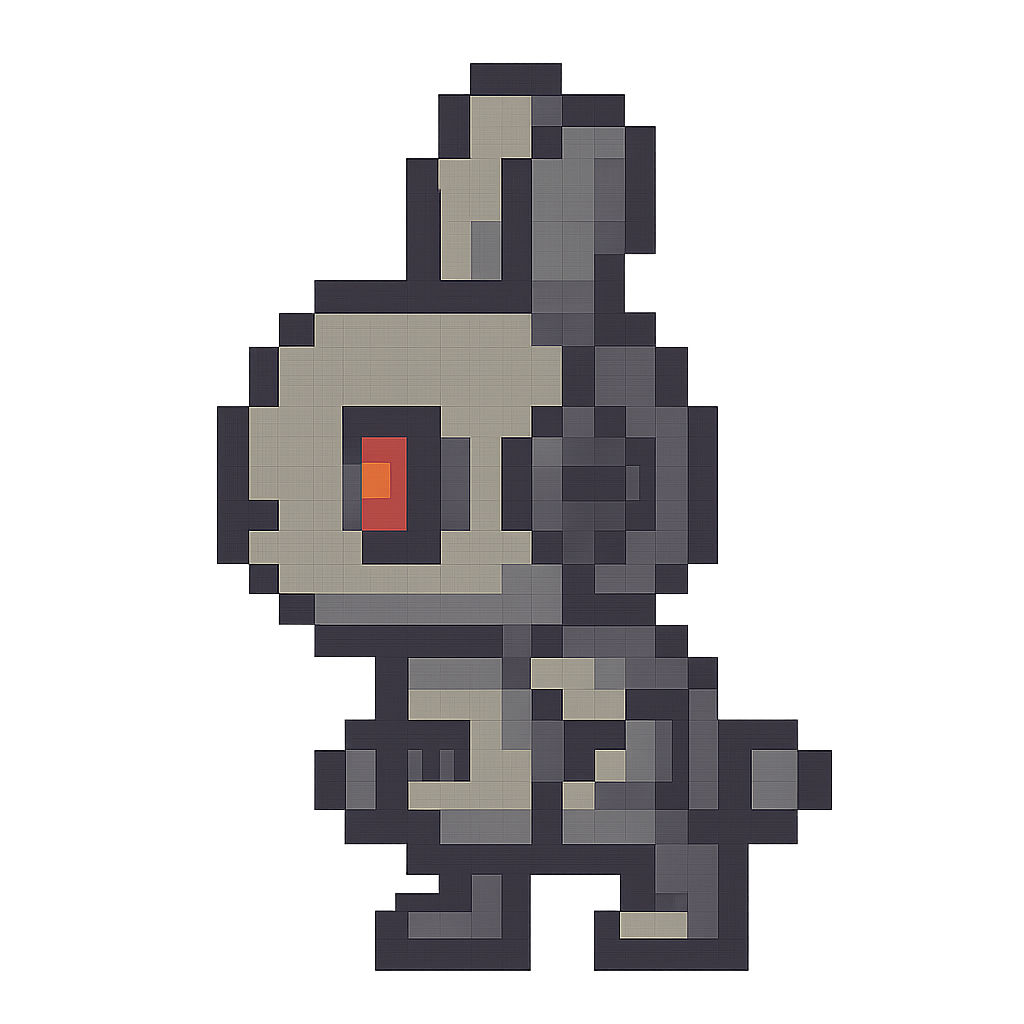
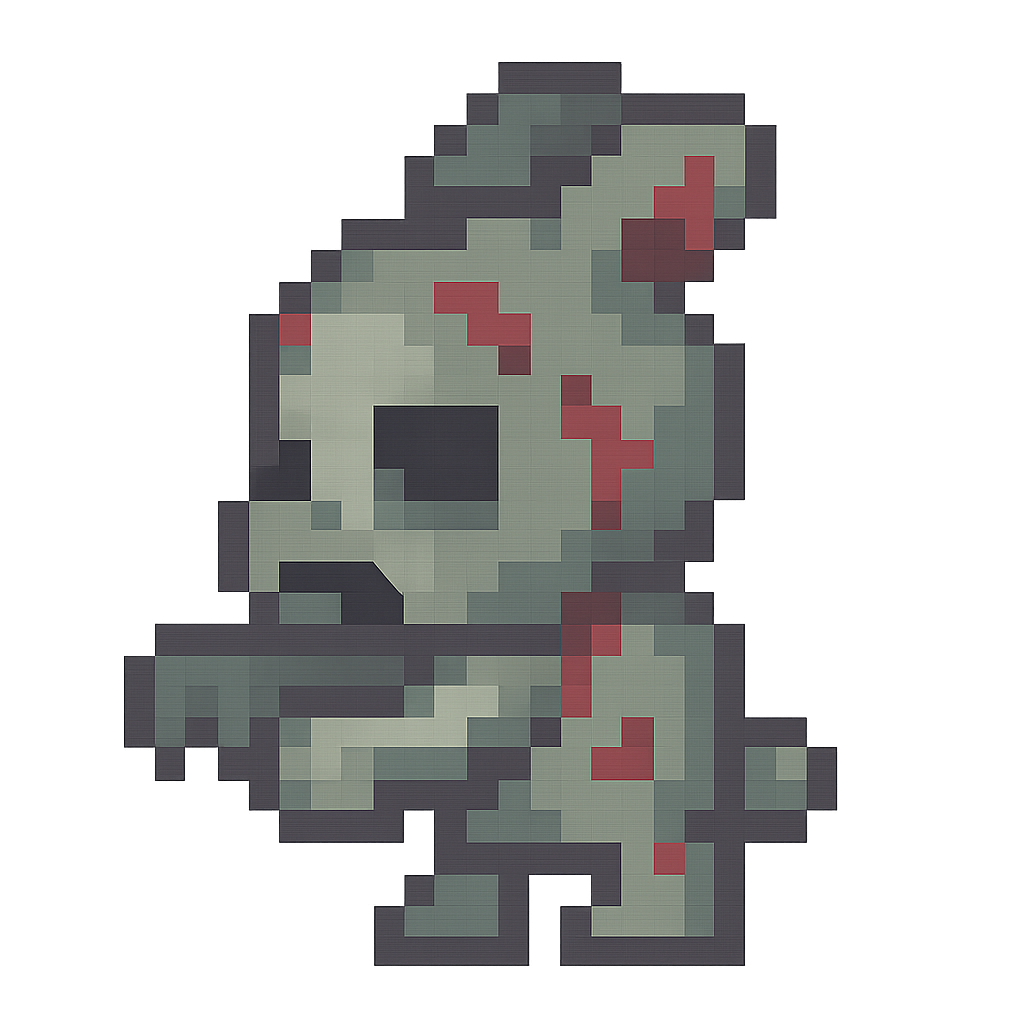
lv3/boss completed, shop incompleted

Changed region(s): [[0.0938, 0.0625, 0.8438, 0.9688]]

diff --git a/bunnywarswebsite/ScreenVisuals.js b/bunnywarswebsite/ScreenVisuals.js
@@ -38,93 +38,41 @@ class ScreenVisuals {
     }
 
     static fightScreen3() {
-        displayMessage(`
-            |-----------------------------------------------------------------------------------|
-            |                                                                                   |
-            |                           Welcome to the Dungeon.                 (ROAR! )        |
-            |                                                                      \\            |
-            |   (\\__/)                                                          (\\__(\\          |
-            |  (. ,, .) |                                                       (X == X)        |
-            | (0      )0+                                                      -(      )-       |
-            |  O------O                                                         O------O        |
-            |^^^^^^^^^^^^^^^^^^^^^^^^^^^^^^^^^^^^^^^^^^^^^^^^^^^^^^^^^^^^^^^^^^^^^^^^^^^^^^^^^^^|
-            |-----------------------------------------------------------------------------------|
-        `);
+        drawSprite("bunny_default", 200, 400, 100, 100);
+        drawSprite("monster_lv3", 1000, 400, 100, 100);
     }
 
     static doesDamage3() {
-        displayMessage(`
-            |-----------------------------------------------------------------------------------|
-            |                                                                                   |
-            |    (BOW BOW bow!)                                                 (AHHHH!)        |
-            |       /                                                               \\           |
-            |   (\\__/)                                                          (\\__(\\          |
-            |  (. ,, .) |                                                       (X == X)        |
-            | (0      )0+                                                      -(      )-       |
-            |  O------O                                                         O------O        |
-            |^^^^^^^^^^^^^^^^^^^^^^^^^^^^^^^^^^^^^^^^^^^^^^^^^^^^^^^^^^^^^^^^^^^^^^^^^^^^^^^^^^^|
-            |-----------------------------------------------------------------------------------|
-        `);
+        clearCanvas(); // Clear the canvas before drawing
+        drawBackground("bg_lv3"); // Draw the background again
+        drawSprite("bunny_default", 200, 400, 100, 100); // Draw the bunny sprite again
+        drawSprite("monster_lv3", 1000, 400, 100, 100); // Draw the monster sprite again
     }
 
     static takeDamage3() {
-        displayMessage(`
-            |-----------------------------------------------------------------------------------|
-            |                                                                                   |
-            |      (ouch!)                                                          (muahahaha) |
-            |        /                                                                \\         |
-            |   (\\__/)                                                          (\\__(\\          |
-            |  (- ,, -) |                                                       (X ,, X)        |
-            | (0      )0+                                                       (O    O)        |
-            |  O------O                                                         O------O        |
-            |^^^^^^^^^^^^^^^^^^^^^^^^^^^^^^^^^^^^^^^^^^^^^^^^^^^^^^^^^^^^^^^^^^^^^^^^^^^^^^^^^^^|
-            |-----------------------------------------------------------------------------------|
-        `);
+        clearCanvas(); // Clear the canvas before drawing
+        drawBackground("bg_lv3"); // Draw the background again
+        drawSprite("bunny_default", 200, 400, 100, 100); // Draw the bunny sprite again
+        drawSprite("monster_lv3", 1000, 400, 100, 100); // Draw the monster sprite again
     }
 
     static fightScreenBoss() {
-        displayMessage(`
-            |-----------------------------------------------------------------------------------|
-            |                                                                                   |
-            |                           Welcome to the THE BOSS.                (grrr..)        |
-            |                                                                  |   \\            |
-            |   (\\__/)                                                        | (\\__(\\          |
-            |  (. ,, .) |                                                      |(X ,, X)        |
-            | (0      )0+                                                      +(O    O)        |
-            |  O------O                                                         O------O        |
-            |^^^^^^^^^^^^^^^^^^^^^^^^^^^^^^^^^^^^^^^^^^^^^^^^^^^^^^^^^^^^^^^^^^^^^^^^^^^^^^^^^^^|
-            |-----------------------------------------------------------------------------------|
-        `);
+        drawSprite("bunny_default", 200, 400, 100, 100);
+        drawSprite("monster_lv4", 1000, 400, 100, 100);
     }
 
     static doesDamageBoss() {
-        displayMessage(`
-            |-----------------------------------------------------------------------------------|
-            |                                                                                   |
-            |    (BOW BOW BOW!)                                                 (YOOOW!)        |
-            |       /                                                          |    \\           |
-            |   (\\__/)                                                        | (\\__(\\          |
-            |  (. ,, .) |                                                      |(X ,, X)        |
-            | (0      )0+                                                      +(O    O)        |
-            |  O------O                                                         O------O        |
-            |^^^^^^^^^^^^^^^^^^^^^^^^^^^^^^^^^^^^^^^^^^^^^^^^^^^^^^^^^^^^^^^^^^^^^^^^^^^^^^^^^^^|
-            |-----------------------------------------------------------------------------------|
-        `);
+        clearCanvas(); // Clear the canvas before drawing
+        drawBackground("bg_lv4"); // Draw the background again
+        drawSprite("bunny_default", 200, 400, 100, 100); // Draw the bunny sprite again
+        drawSprite("monster_lv4", 1000, 400, 100, 100); // Draw the monster sprite again
     }
 
     static takeDamageBoss() {
-        displayMessage(`
-            |-----------------------------------------------------------------------------------|
-            |                                                                                   |
-            |      (ouch!)                                                          (heh..)     |
-            |        /                                                         |      \\         |
-            |   (\\__/)                                                        | (\\__(\\          |
-            |  (- ,, -) |                                                      |(X ,, X)        |
-            | (0      )0+                                                      +(O    O)        |
-            |  O------O                                                         O------O        |
-            |^^^^^^^^^^^^^^^^^^^^^^^^^^^^^^^^^^^^^^^^^^^^^^^^^^^^^^^^^^^^^^^^^^^^^^^^^^^^^^^^^^^|
-            |-----------------------------------------------------------------------------------|
-        `);
+        clearCanvas(); // Clear the canvas before drawing
+        drawBackground("bg_lv4"); // Draw the background again
+        drawSprite("bunny_default", 200, 400, 100, 100); // Draw the bunny sprite again
+        drawSprite("monster_lv4", 1000, 400, 100, 100); // Draw the monster sprite again
     }
 
     static winBossBattleScreen() {

diff --git a/bunnywarswebsite/Dungeon.js b/bunnywarswebsite/Dungeon.js
@@ -149,10 +149,14 @@ class Dungeon {
     }
 
     static async bossBattle(player) {
-        Dungeon.showLevelScreen(4, "Boss Battle");
+        await GraphicsManager.loadSprite("bg_lv4", "./assets/bg_lv4.png");
+        await GraphicsManager.loadSprite("monster_lv4", "./assets/monster_lv4.png");
+        await GraphicsManager.drawBackground("bg_lv4");
+        await Dungeon.showLevelScreen(4, "Boss Battle");
         Dungeon.replenishHealth(player);
-
-        let bossHealth = 300;
+        await Dungeon.fightLevel(player, 250, "boss");
+    }
+        /*let bossHealth = 300;
         ScreenVisuals.fightScreenBoss();
 
         while (player.getHealthBar() > 0 && bossHealth > 0) {
@@ -199,8 +203,8 @@ class Dungeon {
             ScreenVisuals.trainAndComeBackScreen();
         }
 
-        displayMessage(`Your current budget: ${player.getBudget()}`);
-    }
+        displayMessage(`Your current budget: ${player.getBudget()}`);*/
+    
 
     static async fightLevel(player, monsterHealth, level) {
         level = level.trim().toLowerCase();

diff --git a/bunnywarswebsite/GraphicsManager.js b/bunnywarswebsite/GraphicsManager.js
@@ -98,7 +98,7 @@ function typeMessage(message, x = 50, y = 50, lineHeight = 28, typingSpeed = 10)
 
         function onClick(event) {
             const id = event.target.id;
-            if (id === 'level1Btn' || id === 'level2Btn' || id === 'level3Btn') {
+            if (id === 'level1Btn' || id === 'level2Btn' || id === 'level3Btn' || id === 'bossBtn') {
                 finishTyping();
             }
         }

diff --git a/bunnywarswebsite/Player.js b/bunnywarswebsite/Player.js
@@ -5,7 +5,7 @@ class Player {
         this.budget = 0;
         this.weaponDamage = 15;
         this.shieldProtection = 0;
-        this.levelsCompleted = 0;
+        this.levelsCompleted = 3;
     }
 
     getHealthBar() {
